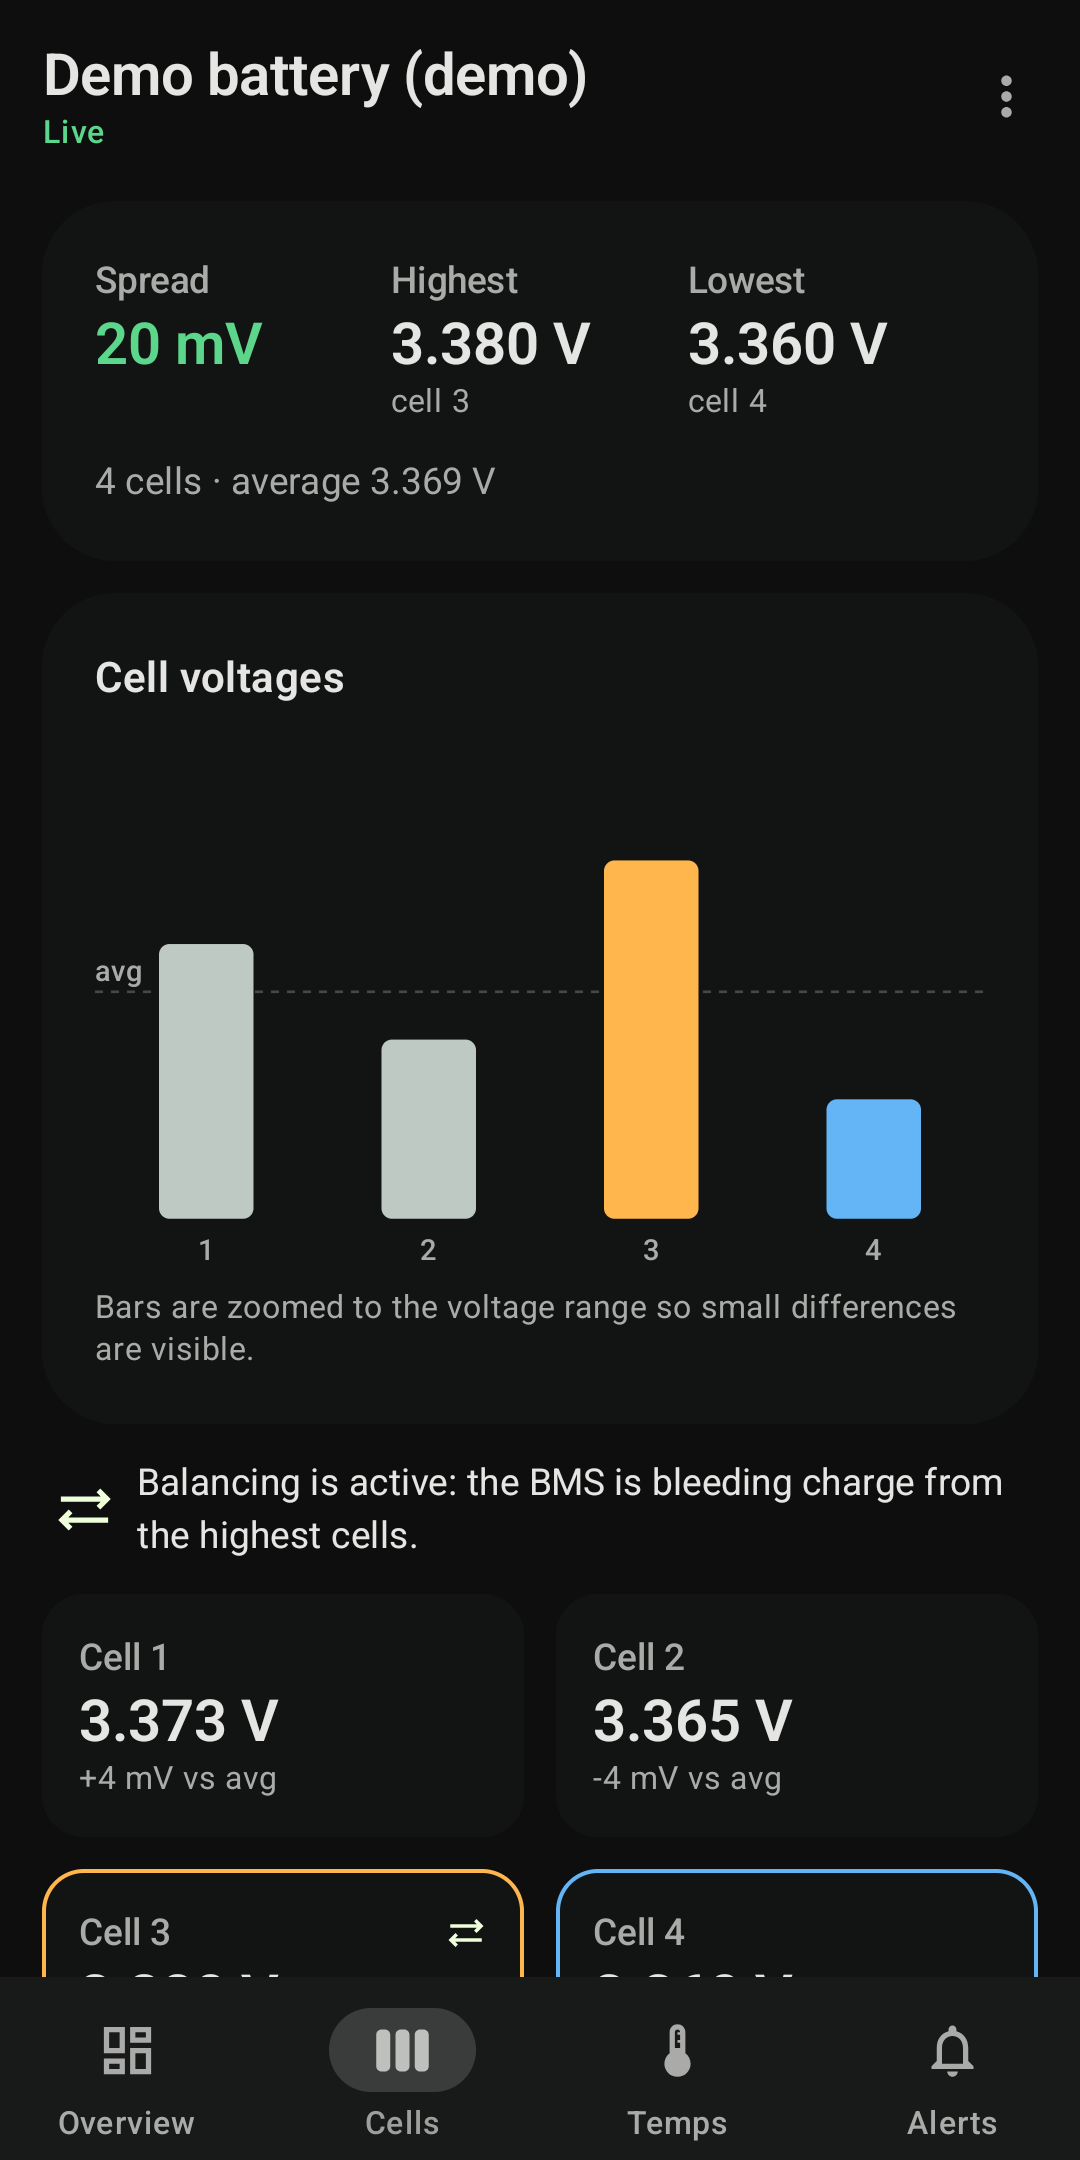
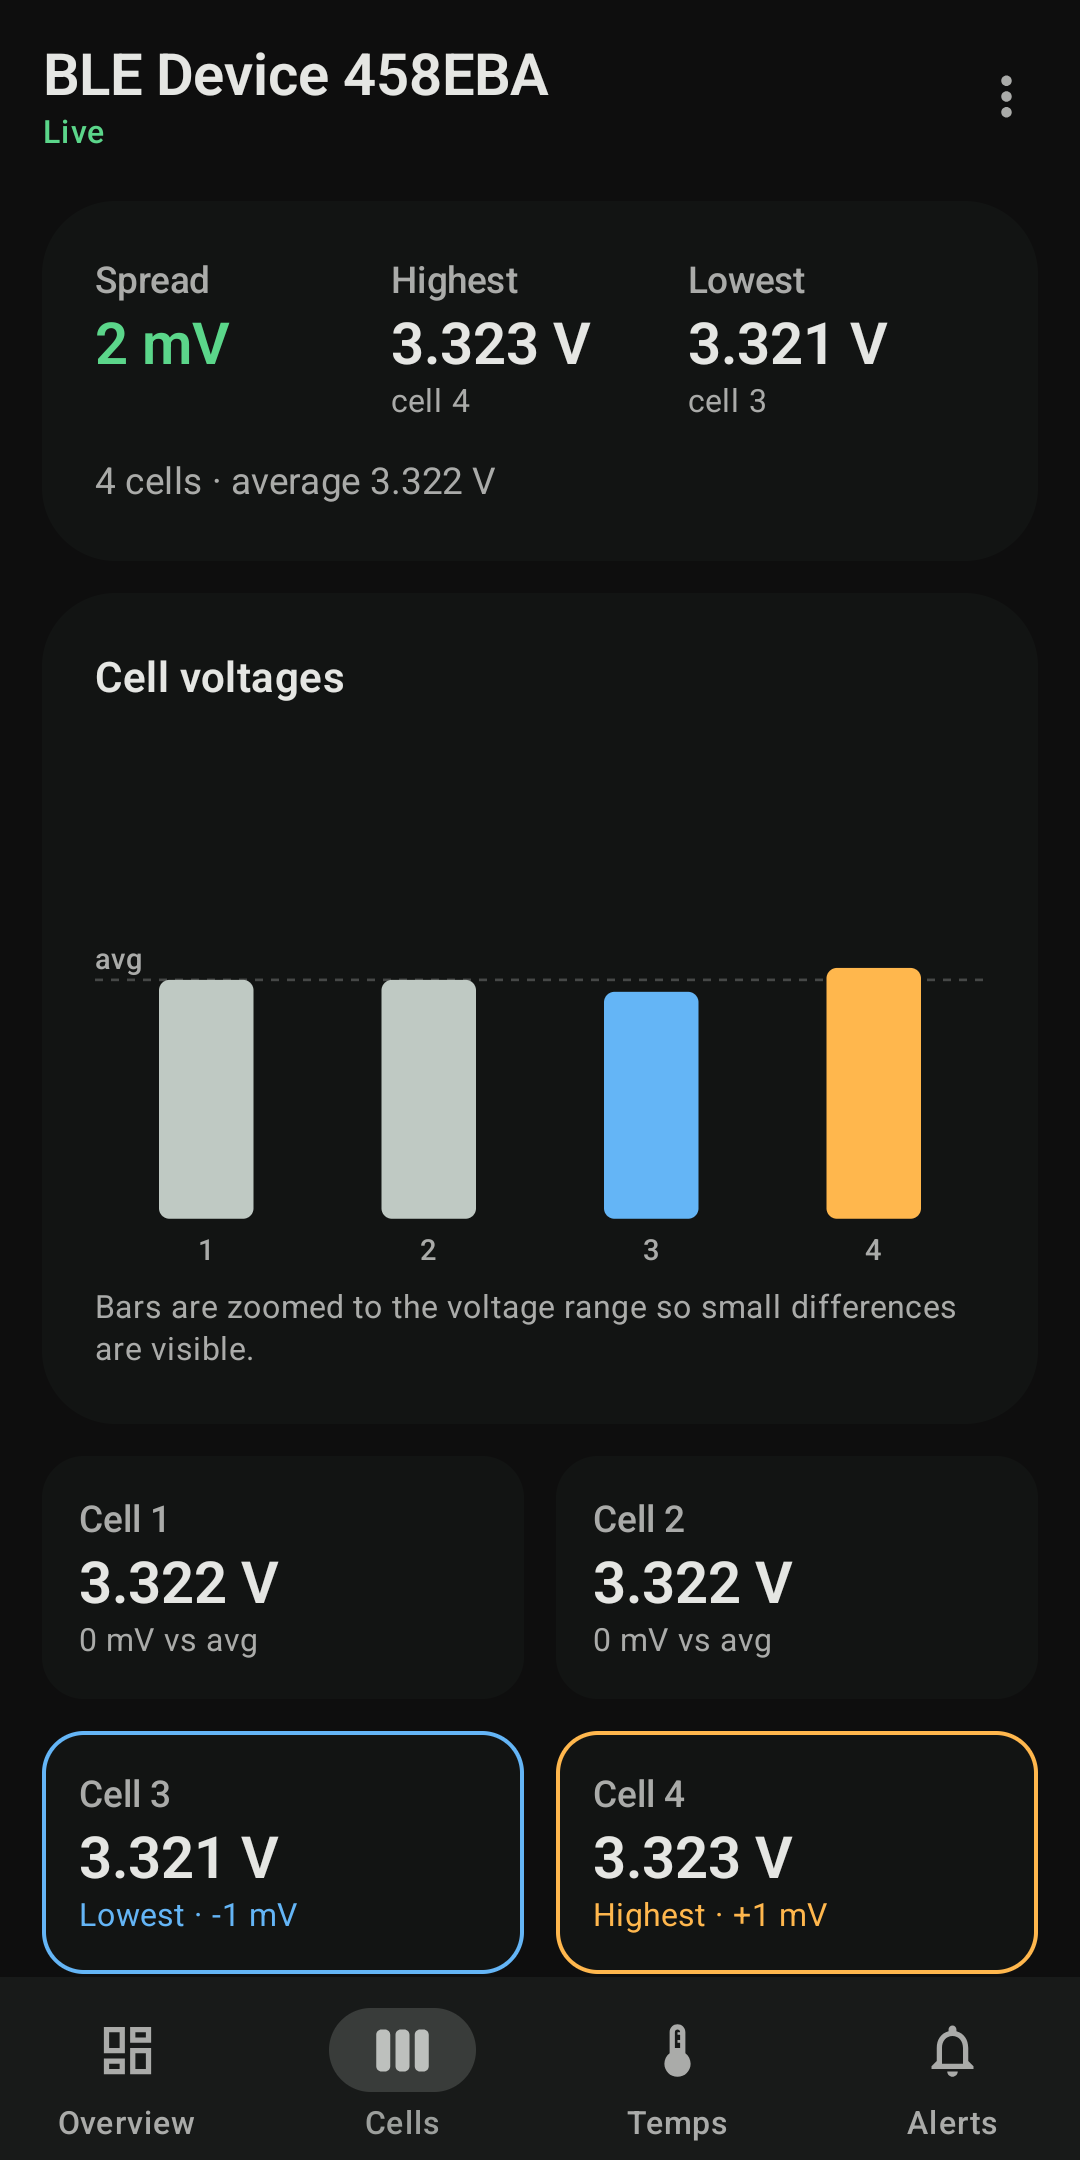
Use real battery screenshots and one release key for Play and GitHub
- Replace the demo-mode screenshots with ones from an EcoTree Lithium
  EL12.8-110HB, so the listing shows the app as people will see it.
- Sign with a single release key that is also registered as Play's
  app signing key, so the Play and GitHub APKs can update each other.
- Document the release steps.

diff --git a/README.md b/README.md
@@ -12,12 +12,12 @@ LTW Bluetooth BMS should work too. The Bluetooth protocol was worked out from LT
 kept byte-for-byte. Everything else is new: Kotlin, Jetpack Compose and Material 3.
 
 <p align="center">
-  <img src="fastlane/metadata/android/en-GB/images/phoneScreenshots/1-overview.png" width="200" alt="Overview screen: charge ring at 72%, charging at 10.79 A, voltage, current, power and temperature tiles">
-  <img src="fastlane/metadata/android/en-GB/images/phoneScreenshots/2-cells.png" width="200" alt="Cells screen: spread, highest and lowest cell, and a bar chart of four cell voltages">
-  <img src="fastlane/metadata/android/en-GB/images/phoneScreenshots/3-temps.png" width="200" alt="Temperatures screen: two cell sensors, the MOSFET and ambient, all normal">
+  <img src="fastlane/metadata/android/en-GB/images/phoneScreenshots/1-overview.png" width="200" alt="Overview screen: charge ring at 94% with 103.2 Ah left, idle, voltage, current, power and temperature tiles">
+  <img src="fastlane/metadata/android/en-GB/images/phoneScreenshots/2-cells.png" width="200" alt="Cells screen: 2 mV spread across four cells, with a bar chart of each cell voltage">
+  <img src="fastlane/metadata/android/en-GB/images/phoneScreenshots/3-temps.png" width="200" alt="Temperatures screen: the cell sensor, the MOSFET and ambient, all normal">
   <img src="fastlane/metadata/android/en-GB/images/phoneScreenshots/4-alerts.png" width="200" alt="Alerts screen: all clear, with the list of monitored protections">
 </p>
-<p align="center"><sub>Shown with the simulated battery from a development build.</sub></p>
+<p align="center"><sub>Connected to an EcoTree Lithium EL12.8-110HB.</sub></p>
 
 ## About this project
 
@@ -92,11 +92,23 @@ file and the key itself are never committed. Without the file, release builds ar
 local debug key, which is fine for sideloading but not accepted by Google Play.
 
 ```
-storeFile=C:/path/to/ampwright-upload.jks
+storeFile=C:/path/to/ampwright-release.jks
 storePassword=...
-keyAlias=upload
+keyAlias=ampwright
 keyPassword=...
 ```
+
+The same key signs the APKs on GitHub Releases and is registered with Google Play as the app signing
+key, so the Play and GitHub versions can update each other. Google can't replace this key if it is
+lost, so keep a backup of the `.jks` file and its password.
+
+### Releasing
+
+1. Raise `versionCode` and `versionName` in `app/build.gradle.kts`, and add
+   `fastlane/metadata/android/en-GB/changelogs/<versionCode>.txt`.
+2. `gradlew bundleRelease assembleRelease`
+3. Upload `app-release.aab` to Google Play.
+4. Attach `app-release.apk` to a GitHub release for the same version.
 
 The store listing text and images are in [`fastlane/metadata/android`](fastlane/metadata/android).
 
